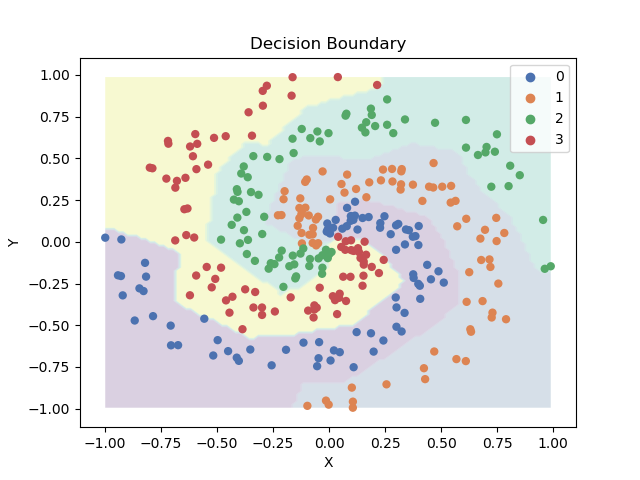
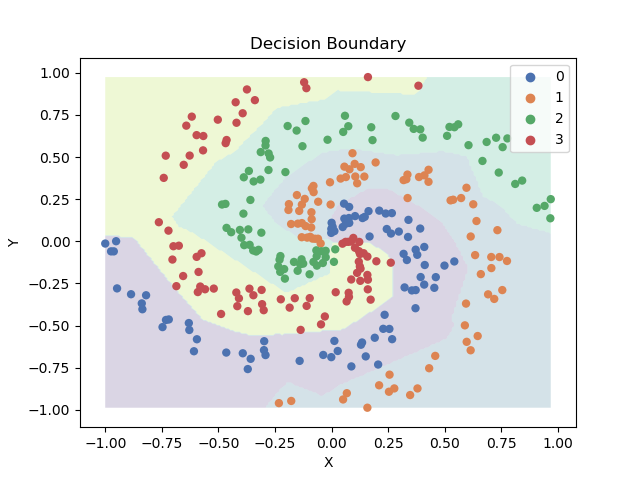
add levels in contourf plot

diff --git a/neural_network/neural_network.py b/neural_network/neural_network.py
@@ -100,7 +100,7 @@ if __name__ == '__main__':
     predicted = predict(X, para)
     print('The accuracy is {:.2f} %'.format(sum(predicted == y_)/len(y_)*100))
 
-    grid_size = 100
+    grid_size = 200
     u = np.linspace(min(X[:, 0]),max(X[:, 0]), grid_size)
     v = np.linspace(min(X[:, 1]),max(X[:, 1]), grid_size)
 
@@ -108,7 +108,7 @@ if __name__ == '__main__':
     grid = np.array([gridx.reshape(-1, ), gridy.reshape(-1, )]).T
     z = predict(grid, para).reshape(grid_size, grid_size)
 
-    plt.contourf(u,v,z, alpha = 0.2, antialiased = True)
+    plt.contourf(u,v,z, alpha = 0.2, levels = K - 1, antialiased = True)
     sns.scatterplot(x = X[:, 0], y = X[:, 1], hue = y_, palette = sns.color_palette('deep', K), edgecolor = "none")
     plt.title('Decision Boundary')
     plt.xlabel('X')

diff --git a/logistic_regression/logistic_regression_multi-class.py b/logistic_regression/logistic_regression_multi-class.py
@@ -55,7 +55,7 @@ if __name__ == '__main__':
     grid = np.array([gridx.reshape(-1, ), gridy.reshape(-1, )]).T
 
     z = predict_multi_class(theta, expand_feature(gridx.reshape(-1, 1), gridy.reshape(-1, 1))).reshape(gridsize, gridsize)
-    plt.contourf(u, v, z, alpha = 0.3, antialiased = True)
+    plt.contourf(u, v, z, alpha = 0.2, levels = K - 1, antialiased = True)
 
     sns.scatterplot(x = X[:, 0], y = X[:, 1], hue = y_, palette = sns.color_palette('deep', K), edgecolor = "none")
     plt.title('Decision Boundary')
